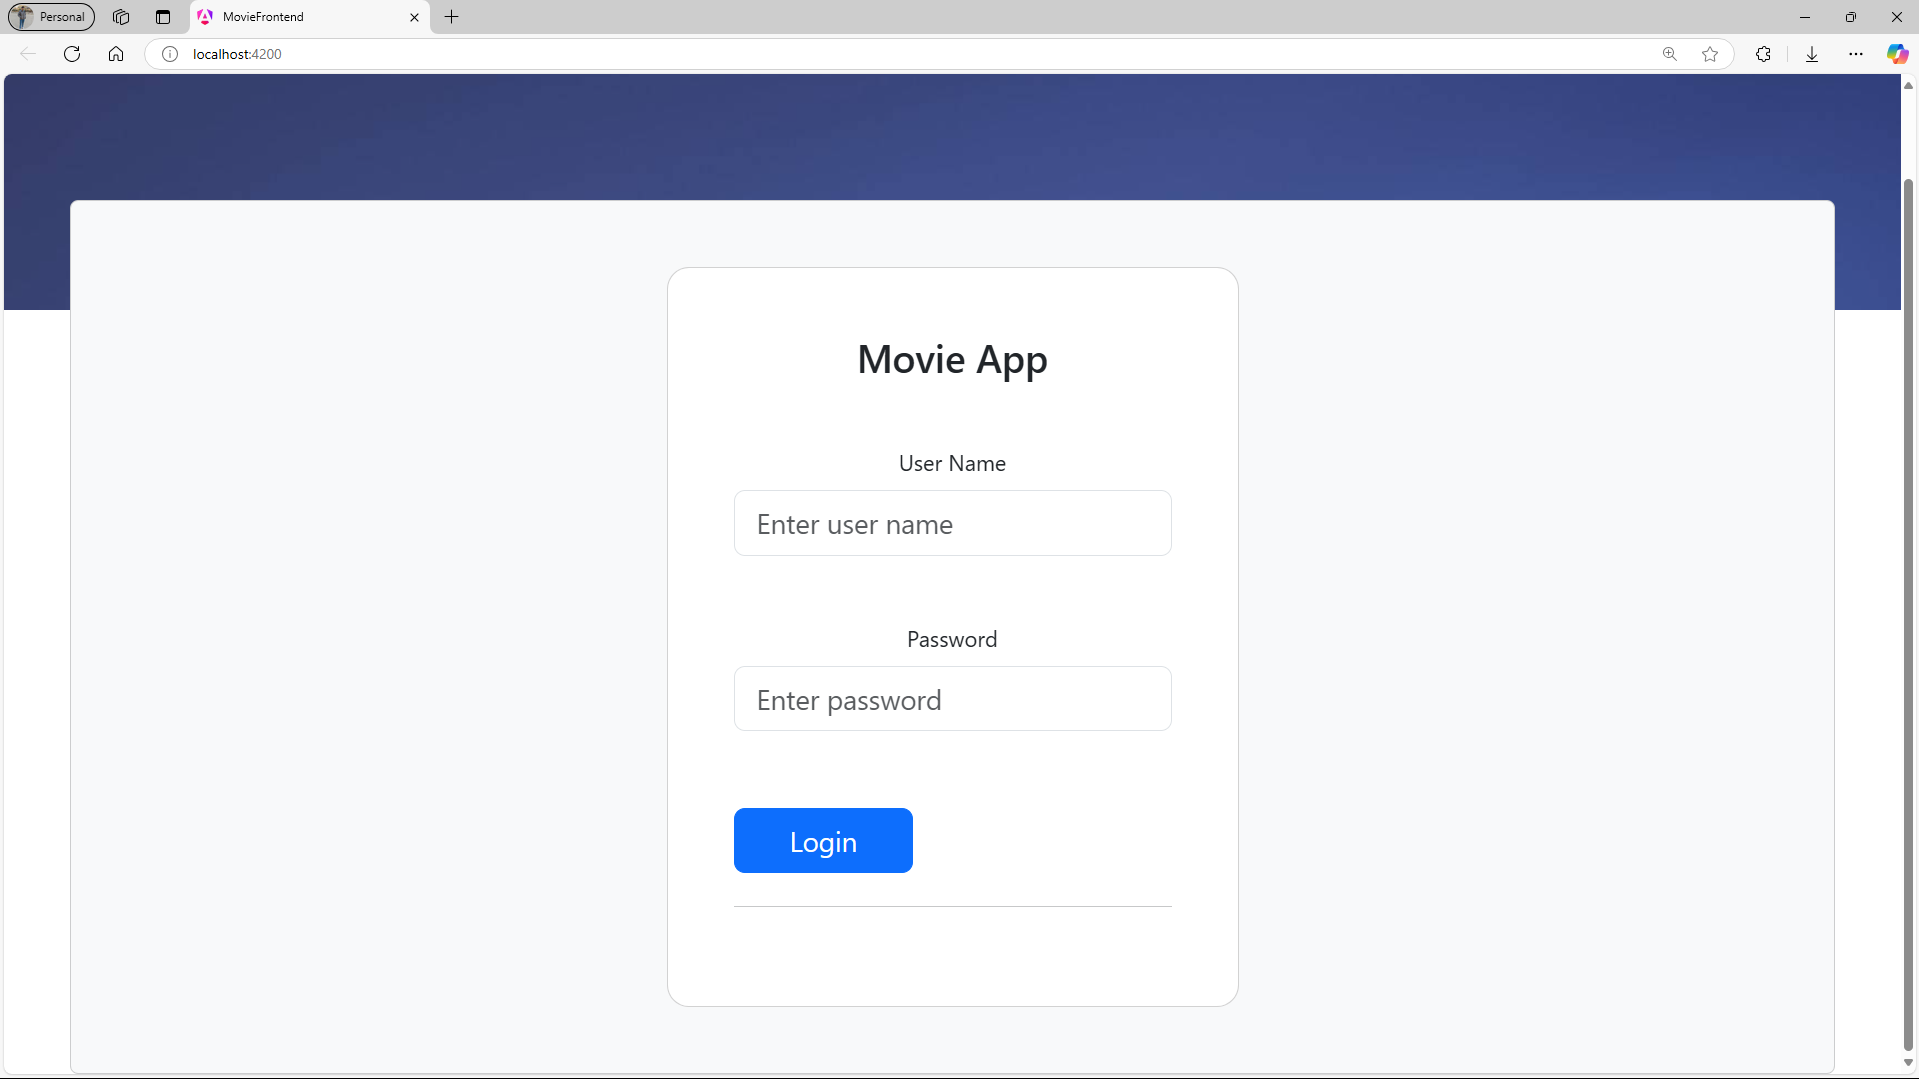
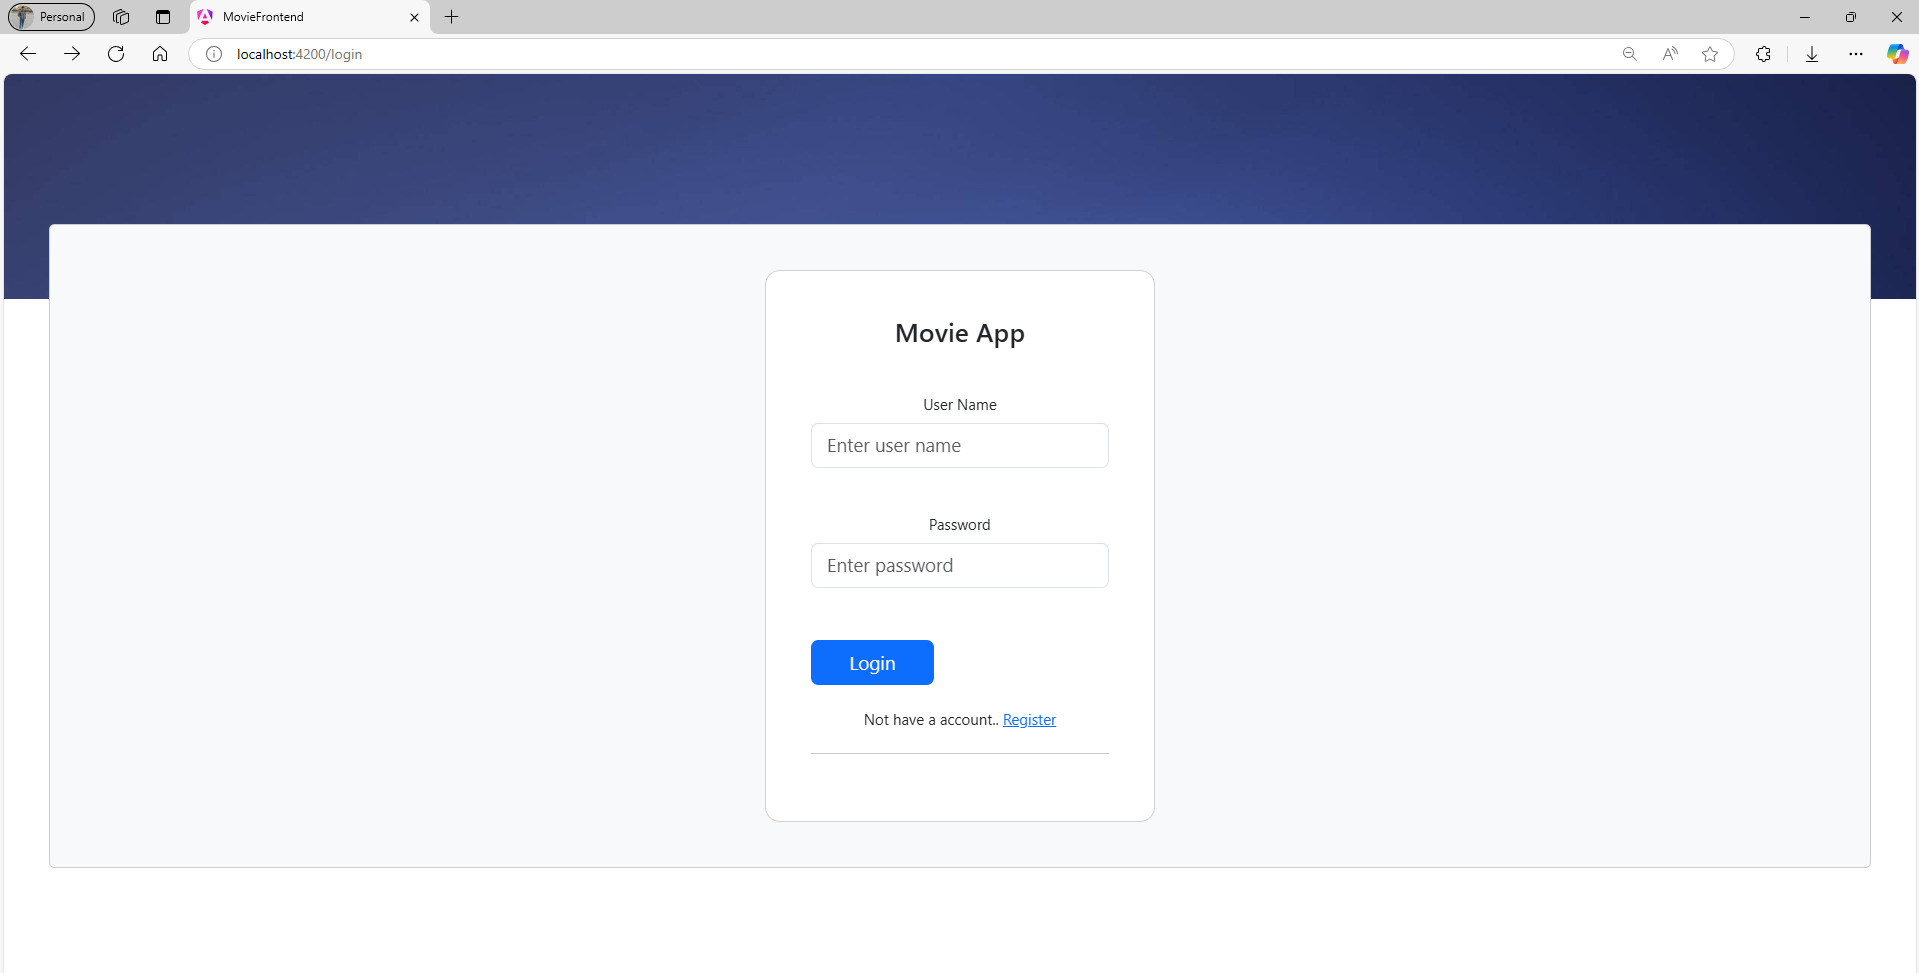
edit Readme

diff --git a/README.md b/README.md
@@ -5,7 +5,7 @@
 This project is a fully-functional movie application developed using Spring Boot, Hibernate, MySQL, and Angular. The application allows regular users to browse movies, search for one or list movies, show all information about movies and rate each movie. It also allows the Admin to add and delete one or more movies using the OMDB API through the dashboard.
 
 ## Features
-- **User Management**: All users can log in and navigate to the accessed page based on Role.
+- **User Management**: All users can create new account ,log in and navigate to the accessed page based on Role.
 - **Admin Dashboard**: Admin can show all movie in local database, show full information of each movie, add one or list by Imdb ID or title, and delete one or more movie by Imdb ID.
 - **Pagination for the movies List**: Regular user can show movie cards in pages with ablity to show full information for each movie.
 - **Search bar**: Regular user can search for movie by Imdb ID, Title or Year.
@@ -127,6 +127,11 @@ The project follows a well-structured architecture pattern:
 - **Description**: cheak Authontication and authorization.
 </details>
 
+### 2. `POST /api/v1/auth/signin`
+- **Description**: user can create new account.
+</details>
+
+
 <details>
 <summary>Admin Controller</summary>
 
@@ -172,10 +177,10 @@ The project follows a well-structured architecture pattern:
 ### 6. `GET /api/v1/home/gat/allInfo/{imdbId}"`
 - **Description**: Catch all movie informations.
 
-### 7. `GET /api/v1/home/gat/rate/{imdbId}"`
+### 7. `GET /api/v1/home/gat/rate/{userName}/{imdbId}"`
 - **Description**: Catch user movie rate.
 
-### 8. `GET /api/v1/home/gat/rate/{imdbId}/{rating}"`
+### 8. `GET /api/v1/home/gat/rate/{userName}/{imdbId}/{rating}"`
 - **Description**: rate movie from 1 to 5 star.
 </details>
 
@@ -184,23 +189,15 @@ The project follows a well-structured architecture pattern:
 
 
 ![Movie Card](https://github.com/Ssaif-9/Spring_Movies_App/blob/main/Attachment/movieCard.png)
-
-
 ![Dashboard](https://github.com/Ssaif-9/Spring_Movies_App/blob/main/Attachment/dashboard.png)
-
 ![Full Information Card](https://github.com/Ssaif-9/Spring_Movies_App/blob/main/Attachment/fullInformation.png)
-
 ![Pagination](https://github.com/Ssaif-9/Spring_Movies_App/blob/main/Attachment/pages.png)
-
 ![Login Form](https://github.com/Ssaif-9/Spring_Movies_App/blob/main/Attachment/login.png)
+![Signin Form](https://github.com/Ssaif-9/Spring_Movies_App/blob/main/Attachment/signin.png)
 ![Search Bar](https://github.com/Ssaif-9/Spring_Movies_App/blob/main/Attachment/searchBar.png)
-
 ![Add By Imdb Id](https://github.com/Ssaif-9/Spring_Movies_App/blob/main/Attachment/addByImdbId.png)
-
 ![Add By Title](https://github.com/Ssaif-9/Spring_Movies_App/blob/main/Attachment/addByTitle.png)
-
 ![Delete By Imdb Id](https://github.com/Ssaif-9/Spring_Movies_App/blob/main/Attachment/deleteByImdbId.png)
-
 
 [Also can watch Video Demo for here..](https://drive.google.com/drive/folders/18IxGJh4YuI7FHYX4J7OyzpriykjeE6Oc?direction=a)
 
